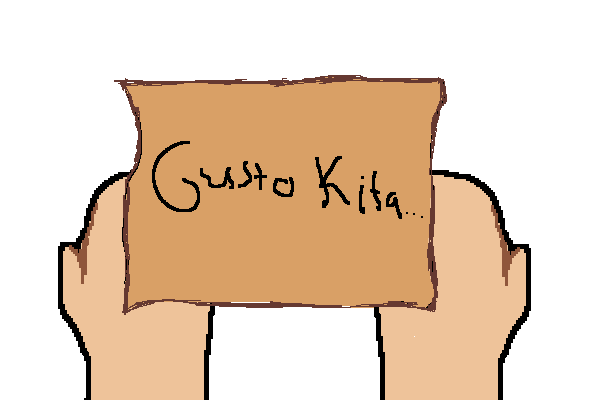
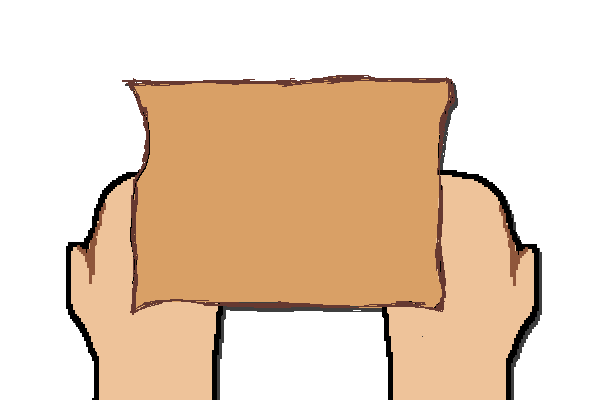
Fix board display

diff --git a/src/components/message.tsx b/src/components/message.tsx
@@ -8,22 +8,24 @@ export default function Message() {
 
   useEffect(() => {
     const intervalId = setInterval(() => {
-      setPosition((p) => p - 5);
+      if (position !== -200) {
+        setPosition((p) => p - 5);
+      }
     }, 100);
 
     return () => clearInterval(intervalId);
-  }, []);
+  }, [position]);
 
   return (
-    <div className="absolute">
+    <>
       <Image
         src={'/assets/others/message.png'}
         height={400}
         width={600}
         alt="Message"
-        className=""
-        style={{ transform: `translateY(${position}px)` }}
-      ></Image>
-    </div>
+        className="absolute z-50"
+        style={{ transform: `translateY(${position + 220}px)` }}
+      />
+    </>
   );
 }
